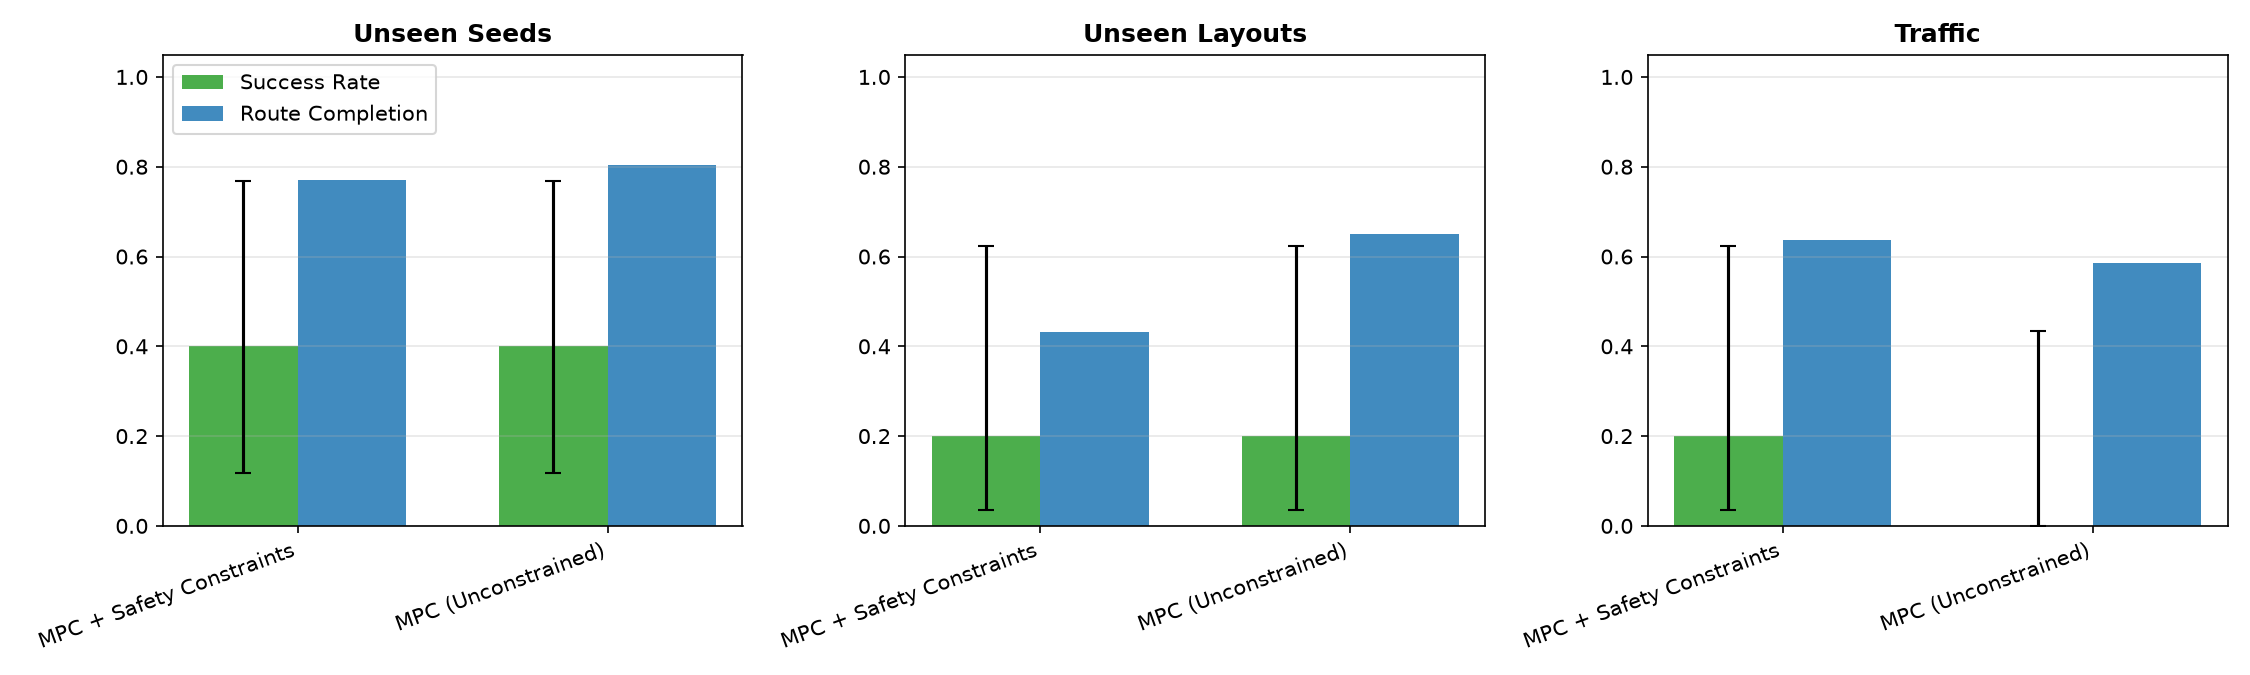
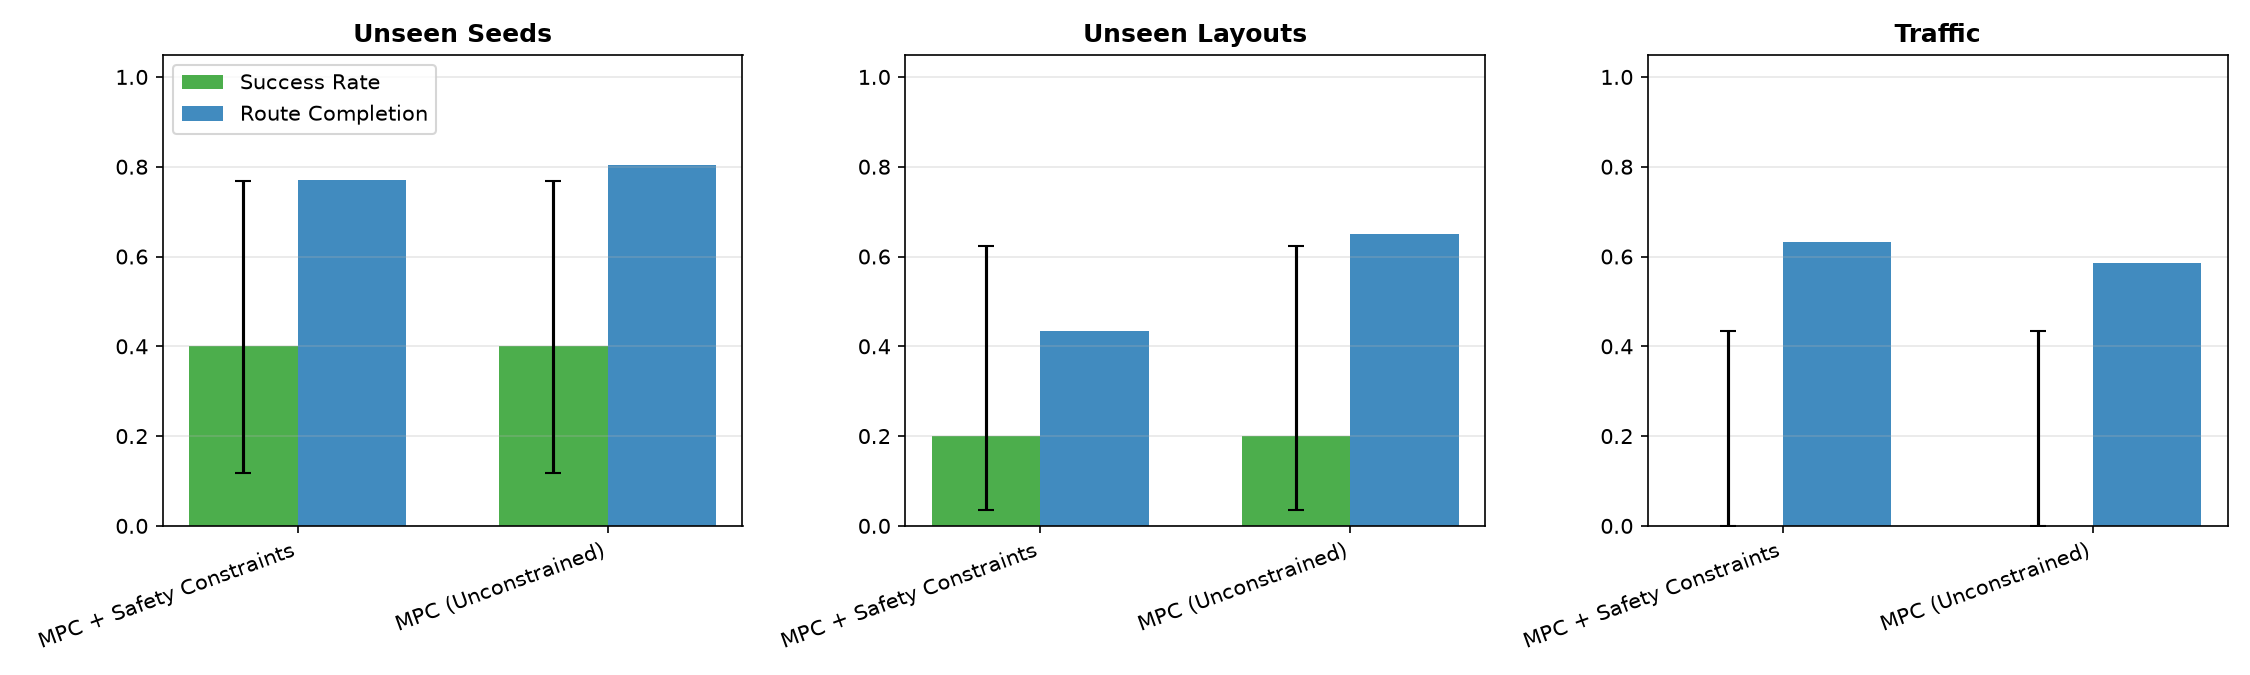
Refine controller damping, fallback warm-start handling, and expand unit test coverage

Changed region(s): [[0.7467, 0.6222, 0.8089, 0.7778]]

diff --git a/tests/test_controllers.py b/tests/test_controllers.py
@@ -31,6 +31,100 @@ def test_stanley_pid_reset() -> None:
     pid = StanleyPIDController()
     pid.speed_error_integral = 5.0
     pid.prev_speed_error = 2.0
+    pid.prev_heading = 0.5
     pid.reset()
     assert pid.speed_error_integral == 0.0
     assert pid.prev_speed_error == 0.0
+    assert pid.prev_heading is None
+
+
+class MockLane:
+    def __init__(self, length: float = 100.0, heading: float = 0.0) -> None:
+        self.length = length
+        self._heading = heading
+
+    def local_coordinates(self, pos: list[float] | np.ndarray) -> tuple[float, float]:
+        return float(pos[0]), float(pos[1])
+
+    def heading_theta_at(self, s: float) -> float:
+        return self._heading
+
+
+class MockAgent:
+    def __init__(
+        self,
+        pos: tuple[float, float] = (0.0, 0.5),
+        heading: float = 0.1,
+        speed: float = 8.0,
+    ) -> None:
+        self.position = list(pos)
+        self.heading_theta = heading
+        self.speed = speed
+        self.velocity = [speed * np.cos(heading), speed * np.sin(heading)]
+        self.steering = 0.0
+        self.lane = MockLane(100.0, 0.0)
+        self.navigation = None
+
+
+class MockEnv:
+    def __init__(self, agent: MockAgent) -> None:
+        self.agent = agent
+        self.engine = None
+
+
+def test_stanley_pid_yaw_rate_damping() -> None:
+    pid = StanleyPIDController(kd_steer=0.5)
+    agent = MockAgent(pos=(0.0, 0.0), heading=0.0, speed=10.0)
+    env = MockEnv(agent)
+
+    # Step 1: initial step, prev_heading is None
+    a1 = pid.compute_action(env)
+    assert pid.prev_heading == 0.0
+
+    # Step 2: heading rotated CCW to 0.2 rad -> yaw_rate = (0.2 - 0.0)/0.1 = 2.0 rad/s
+    agent.heading_theta = 0.2
+    agent.velocity = [10.0 * np.cos(0.2), 10.0 * np.sin(0.2)]
+    a2 = pid.compute_action(env)
+    assert pid.prev_heading == 0.2
+    # Steer command should include damping of -kd * 2.0 = -1.0
+    # Heading error is -0.2, cross track is 0.0 -> steer_cmd = -0.2 - 0.5 * 2.0 = -1.2 -> clipped to -1.0
+    assert a2[0] < a1[0]
+
+
+def test_learned_model_mpc_fallback_and_reset() -> None:
+    import torch
+
+    from driving_wm.data.dataset import Normalizer
+    from driving_wm.data.state import STATE_DIM, TARGET_DIM
+    from driving_wm.models.dynamics import WorldModel
+    from driving_wm.planning.mpc import LearnedModelMPC
+
+    model = WorldModel(hidden_dim=32, num_layers=2)
+    s_norm = Normalizer(torch.zeros(STATE_DIM), torch.ones(STATE_DIM))
+    t_norm = Normalizer(torch.zeros(TARGET_DIM), torch.ones(TARGET_DIM))
+
+    mpc = LearnedModelMPC(
+        model=model,
+        state_norm=s_norm,
+        target_norm=t_norm,
+        horizon=5,
+        num_samples=16,
+        safety_constraints=True,
+    )
+
+    agent = MockAgent(pos=(0.0, 8.0), heading=0.2, speed=10.0)  # lat=8.0 violates 4.75m road bound
+    env = MockEnv(agent)
+
+    action = mpc.compute_action(env)
+    # Because agent is at lat=8.0 (way outside road bounds), all rollouts are infeasible -> fallback triggered
+    assert mpc.fallback_count == 1
+    # Fallback applies braking: action[1] == -0.5
+    assert action[1] == -0.5
+    # prev_solution is cleared on fallback so infeasible sequence is not reused as warm start
+    assert mpc.prev_solution is None
+
+    # Reset clears telemetry and state
+    mpc.reset()
+    assert mpc.fallback_count == 0
+    assert mpc.total_steps == 0
+    assert mpc.prev_solution is None

diff --git a/src/driving_wm/planning/mpc.py b/src/driving_wm/planning/mpc.py
@@ -10,7 +10,7 @@ import torch
 
 from driving_wm.controllers.pid import BaseController
 from driving_wm.data.dataset import Normalizer
-from driving_wm.data.state import extract_vehicle_dynamic_state
+from driving_wm.data.state import extract_vehicle_dynamic_state, wrap_angle
 from driving_wm.models.dynamics import WorldModel
 from driving_wm.planning.constraints import evaluate_all_constraints
 from driving_wm.planning.cost import MPCCost
@@ -244,12 +244,17 @@ class LearnedModelMPC(BaseController):
         chosen_action = best_seq[0].copy()
 
         if is_fallback:
-            # Active safety fallback: steer toward lane centerline and apply braking
+            # Active safety fallback: steer toward lane centerline and heading, and apply braking
             long_p, lat_p = target_lane.local_coordinates(agent.position)
-            center_steer = float(np.clip(lat_p * 0.5, -0.6, 0.6))
+            lane_heading = float(
+                target_lane.heading_theta_at(max(0.0, min(target_lane.length, long_p)))
+            )
+            heading_err = float(wrap_angle(lane_heading - curr_heading))
+            center_steer = float(np.clip(heading_err + lat_p * 0.5, -0.6, 0.6))
             chosen_action = np.array([center_steer, -0.5], dtype=np.float32)
-
-        self.prev_solution = best_seq
+            self.prev_solution = None
+        else:
+            self.prev_solution = best_seq
         self.prev_action = chosen_action
         self.total_steps += 1
 

diff --git a/src/driving_wm/controllers/pid.py b/src/driving_wm/controllers/pid.py
@@ -57,10 +57,12 @@ class StanleyPIDController(BaseController):
 
         self.speed_error_integral = 0.0
         self.prev_speed_error = 0.0
+        self.prev_heading: float | None = None
 
     def reset(self) -> None:
         self.speed_error_integral = 0.0
         self.prev_speed_error = 0.0
+        self.prev_heading = None
 
     def compute_action(self, env: Any, info: dict[str, Any] | None = None) -> np.ndarray:
         agent = env.agent
@@ -90,10 +92,13 @@ class StanleyPIDController(BaseController):
         cross_track_term = math.atan2(self.kp_steer * lat_offset, max(v_speed, 1.0))
         steer_cmd = heading_error + cross_track_term
 
-        # Damping using yaw rate if available
-        yaw_rate = float(
-            agent.velocity[0] * math.sin(heading) - agent.velocity[1] * math.cos(heading)
-        )
+        # Damping using yaw rate
+        if self.prev_heading is not None:
+            dyaw = wrap_angle(heading - self.prev_heading)
+            yaw_rate = dyaw / 0.1  # control timestep dt = 0.1s
+        else:
+            yaw_rate = 0.0
+        self.prev_heading = heading
         steer_cmd -= self.kd_steer * yaw_rate
         steer = float(np.clip(steer_cmd, -1.0, 1.0))
 

diff --git a/tests/test_metrics_stats.py b/tests/test_metrics_stats.py
@@ -62,6 +62,29 @@ def test_mcnemar_test() -> None:
     assert res["statistic"] == 0.0
     assert res["p_value"] == 1.0
 
+    # Discordant outcomes but equal counts (n01=1, n10=1) -> continuity correction stat=0, p=1.0
+    out_a_eq = [True, False, True, True]
+    out_b_eq = [False, True, True, True]
+    res_eq = mcnemar_test(out_a_eq, out_b_eq)
+    assert res_eq["statistic"] == 0.0
+    assert res_eq["p_value"] == 1.0
+    assert res_eq["n_a_better"] == 1
+    assert res_eq["n_b_better"] == 1
+
+    # Discordant difference of 1 (n10=2, n01=1) -> diff <= 1 -> stat=0, p=1.0
+    out_a_diff1 = [True, True, False, True]
+    out_b_diff1 = [False, False, True, True]
+    res_diff1 = mcnemar_test(out_a_diff1, out_b_diff1)
+    assert res_diff1["statistic"] == 0.0
+    assert res_diff1["p_value"] == 1.0
+
+    # Strong asymmetric discordant (n10=9, n01=0) -> stat = (8^2)/9 = 7.111
+    out_a_asym = [True] * 9 + [False]
+    out_b_asym = [False] * 9 + [False]
+    res_asym = mcnemar_test(out_a_asym, out_b_asym)
+    assert abs(res_asym["statistic"] - (64.0 / 9.0)) < 1e-4
+    assert res_asym["p_value"] < 0.01
+
 
 def test_compute_steering_jerk() -> None:
     # Constant steering -> jerk is 0.0

diff --git a/scripts/setup_check.py b/scripts/setup_check.py
@@ -15,15 +15,9 @@ from typing import Any
 
 
 def get_git_info() -> dict[str, str]:
-    """Retrieve git user name, email, and commit hash."""
+    """Retrieve git commit hash."""
     info = {}
     try:
-        info["user_name"] = subprocess.check_output(
-            ["git", "config", "user.name"], text=True
-        ).strip()
-        info["user_email"] = subprocess.check_output(
-            ["git", "config", "user.email"], text=True
-        ).strip()
         info["commit"] = subprocess.check_output(
             ["git", "rev-parse", "--short", "HEAD"], text=True
         ).strip()
@@ -75,8 +69,6 @@ def print_environment_info() -> None:
 
     git_info = get_git_info()
     print("\nGit Config:")
-    print(f"  - user.name: {git_info.get('user_name', 'N/A')}")
-    print(f"  - user.email: {git_info.get('user_email', 'N/A')}")
     print(f"  - commit: {git_info.get('commit', 'N/A')}")
     print("=" * 70)
 

diff --git a/src/driving_wm/evaluation/stats.py b/src/driving_wm/evaluation/stats.py
@@ -109,12 +109,13 @@ def mcnemar_test(outcomes_a: list[bool], outcomes_b: list[bool]) -> dict[str, An
             n10 += 1
 
     total_discordant = n01 + n10
-    if total_discordant == 0:
+    diff = abs(n01 - n10)
+    if diff <= 1 or total_discordant == 0:
         stat = 0.0
         p_val = 1.0
     else:
         # Continuity-corrected chi-square
-        stat = ((abs(n01 - n10) - 1.0) ** 2) / total_discordant
+        stat = ((diff - 1.0) ** 2) / total_discordant
         # 1-df chi-square survival function approx
         p_val = math.erfc(math.sqrt(stat) / math.sqrt(2.0))
 

diff --git a/scripts/run_pipeline.py b/scripts/run_pipeline.py
@@ -261,8 +261,8 @@ def main() -> None:
     )
     ab_a_data = load_yaml(ab_a_summary)
     plot_ablation_safety(
-        ab_a_data["MPC + Safety Constraints"]["test_unseen_seeds"],
-        ab_a_data["MPC (Unconstrained)"]["test_unseen_seeds"],
+        ab_a_data["MPC + Safety Constraints"]["test_traffic"],
+        ab_a_data["MPC (Unconstrained)"]["test_traffic"],
         results_dir / "ablation_a_safety.png",
     )
     stage_timings["ablation_a_seconds"] = time.time() - s5_t

diff --git a/src/driving_wm/evaluation/run_benchmark.py b/src/driving_wm/evaluation/run_benchmark.py
@@ -104,7 +104,7 @@ def run_single_episode(
 
     # Planning time if controller has telemetry
     plan_time = 0.0
-    if hasattr(controller, "planning_times_ms") and controller.planning_times_ms:
+    if hasattr(controller, "planning_times_ms") and controller.planning_times_ms and step_count > 0:
         plan_time = float(np.mean(controller.planning_times_ms[-step_count:]))
 
     res = EpisodeResult(
